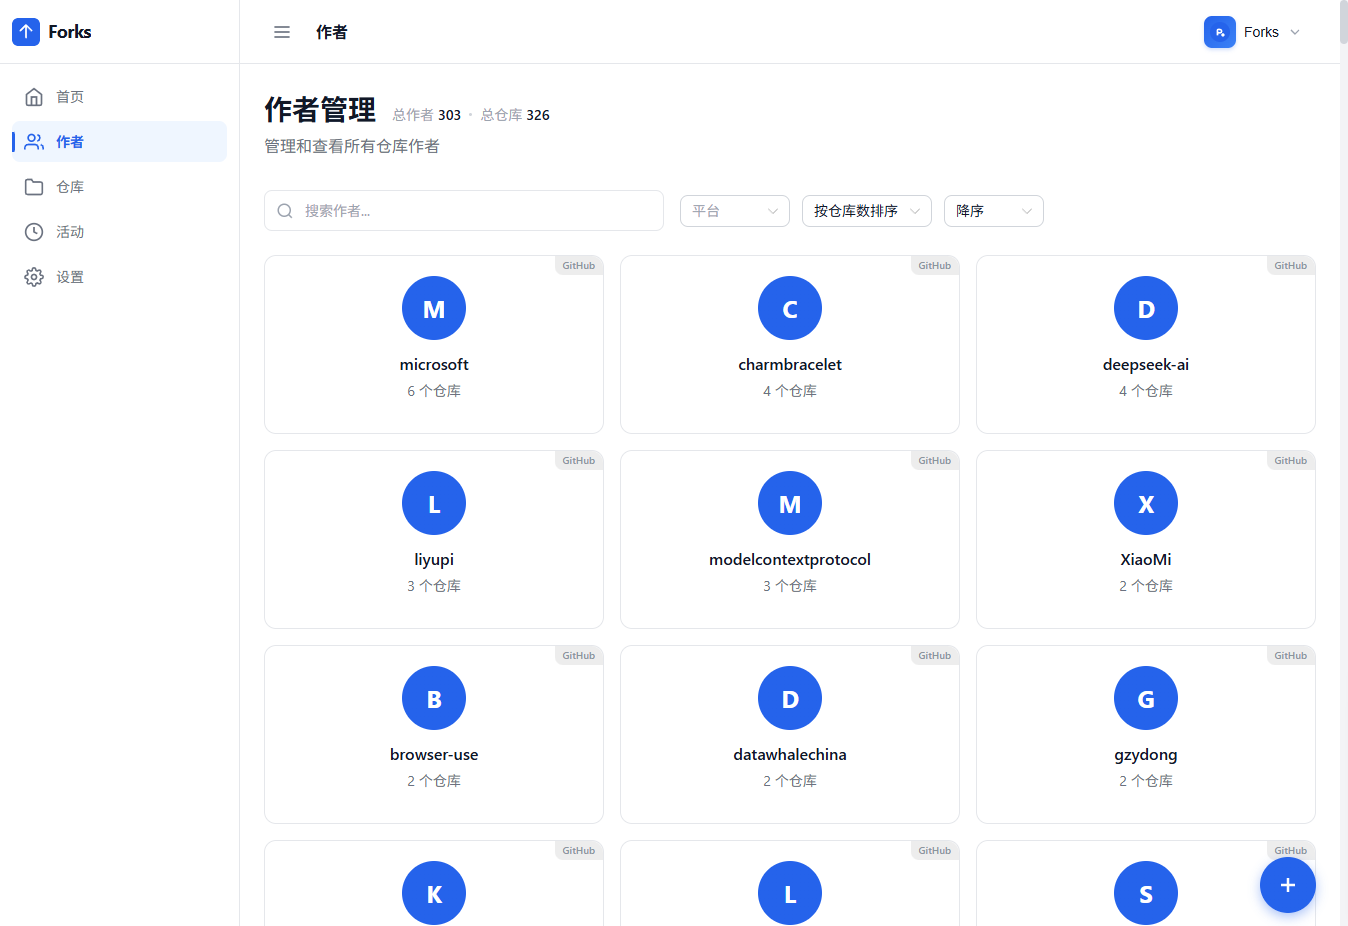
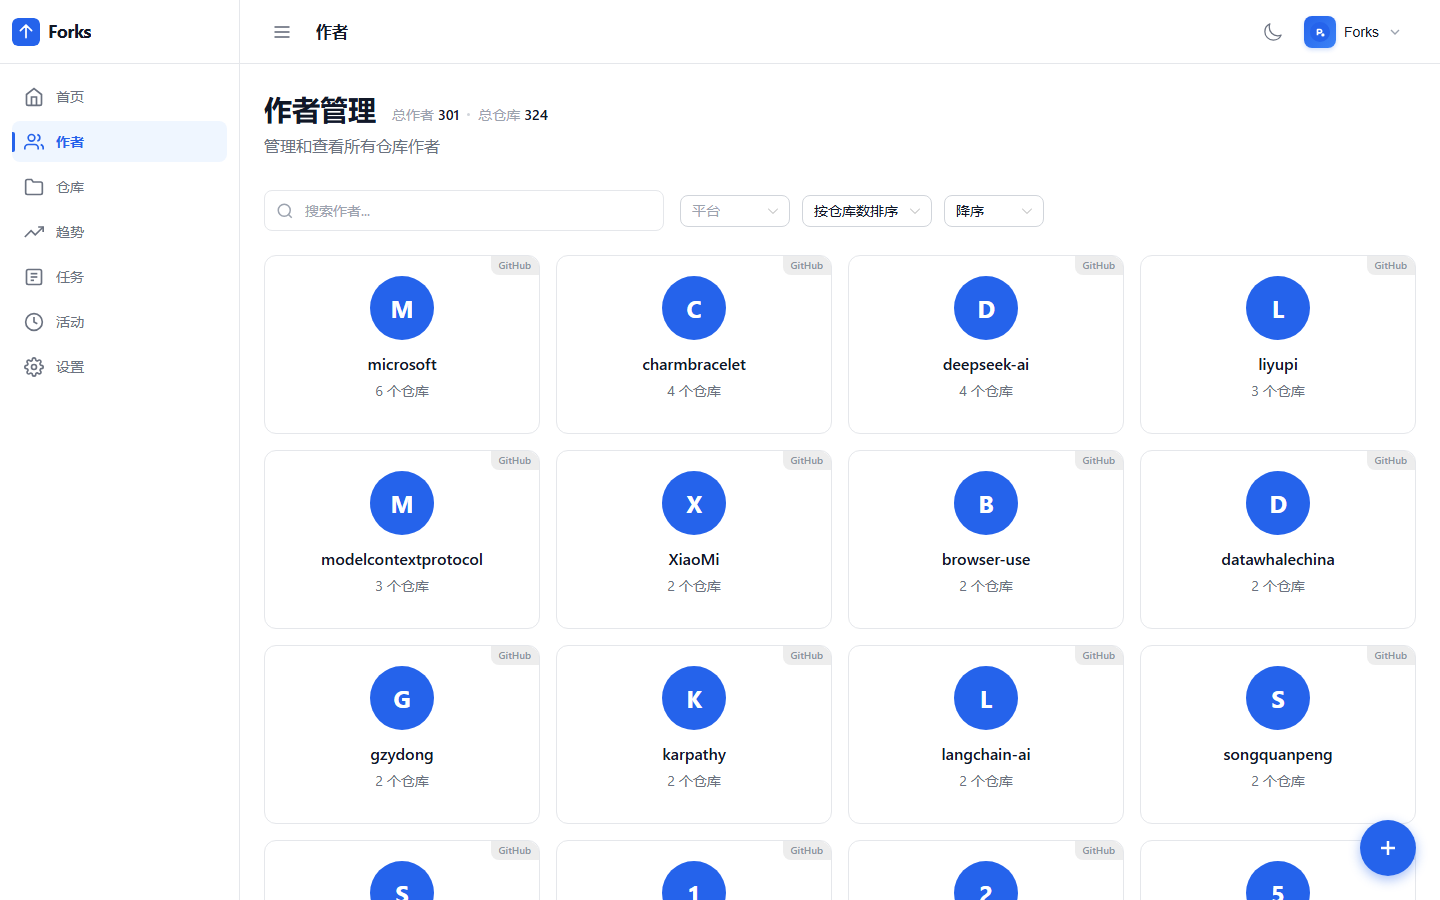
refactor(scripts): 重构脚本目录结构并优化功能
- 将脚本文件移动到 scripts 目录统一管理
- 更新脚本中的路径处理逻辑以适应新位置
- 优化 docker_build.py 和 release.py 的根目录处理
- 新增 screenshots.py 用于自动生成界面截图
- 更新 README.md 文档和界面截图

diff --git a/scripts/screenshots.py b/scripts/screenshots.py
@@ -1,0 +1,95 @@
+import asyncio
+import os
+from playwright.async_api import async_playwright
+
+BASE = 'http://127.0.0.1:8080'
+TOKEN = '12345678'
+OUT = os.path.join(os.path.dirname(os.path.dirname(__file__)), 'images')
+
+async def main():
+    async with async_playwright() as p:
+        browser = await p.chromium.launch()
+        context = await browser.new_context(
+            viewport={'width': 1440, 'height': 900},
+            color_scheme='dark',
+        )
+
+        pg = await context.new_page()
+
+        # 通过 ?token= 登录
+        await pg.goto(f'{BASE}/?token={TOKEN}', wait_until='domcontentloaded', timeout=15000)
+        await pg.wait_for_timeout(2000)
+        await pg.evaluate('window.history.replaceState({}, "", "/")')
+
+        # 首页
+        print('截图: 首页')
+        await pg.reload(wait_until='domcontentloaded', timeout=15000)
+        await pg.wait_for_timeout(4000)
+        await pg.add_style_tag(content='::-webkit-scrollbar { width: 0 !important; height: 0 !important; }')
+        await pg.wait_for_timeout(300)
+        await pg.screenshot(path=f'{OUT}/首页.png')
+        print(f'  done ({os.path.getsize(f"{OUT}/首页.png")} bytes)')
+
+        pages = [
+            ('仓库列表', 'repos'),
+            ('作者', 'authors'),
+            ('趋势', 'trending'),
+            ('活动', 'activities'),
+            ('设置', 'settings'),
+        ]
+
+        for name, path in pages:
+            print(f'截图: {name}')
+            await pg.goto(f'{BASE}/{path}', wait_until='domcontentloaded', timeout=15000)
+            await pg.wait_for_timeout(3000)
+            await pg.add_style_tag(content='::-webkit-scrollbar { width: 0 !important; height: 0 !important; }')
+            await pg.wait_for_timeout(300)
+            await pg.screenshot(path=f'{OUT}/{name}.png')
+            print(f'  done ({os.path.getsize(f"{OUT}/{name}.png")} bytes)')
+
+        # 仓库详情：点击第一个仓库
+        print('截图: 仓库详情')
+        await pg.goto(f'{BASE}/repos', wait_until='domcontentloaded', timeout=15000)
+        await pg.wait_for_timeout(2000)
+        card = pg.locator('.repo-card').first
+        try:
+            await card.wait_for(state='visible', timeout=3000)
+            await card.click()
+            await pg.wait_for_timeout(2000)
+        except:
+            print('    (未找到仓库卡片)')
+        await pg.screenshot(path=f'{OUT}/仓库详情.png')
+        print(f'  done ({os.path.getsize(f"{OUT}/仓库详情.png")} bytes)')
+
+        # 代码查看：从 API 获取一个已克隆仓库的 ID
+        print('截图: 代码查看')
+        resp = await pg.evaluate(f'''
+            fetch('{BASE}/api/repos?status=cloned&page=1&page_size=1', {{
+                headers: {{ 'Authorization': 'Bearer {TOKEN}' }}
+            }}).then(r => r.json())
+        ''')
+        code_id = None
+        try:
+            code_id = resp['data']['list'][0]['id']
+        except:
+            print('    (未找到已克隆仓库，跳过)')
+        if code_id:
+            await pg.goto(f'{BASE}/code/{code_id}', wait_until='domcontentloaded', timeout=15000)
+            await pg.wait_for_timeout(3000)
+            # 点击第一个文件加载内容
+            file_item = pg.locator('.file-tree .tree-item, .n-tree-node-content').first
+            try:
+                await file_item.wait_for(state='visible', timeout=3000)
+                await file_item.click()
+                await pg.wait_for_timeout(2000)
+            except:
+                pass
+            await pg.add_style_tag(content='::-webkit-scrollbar { width: 0 !important; height: 0 !important; }')
+            await pg.wait_for_timeout(300)
+            await pg.screenshot(path=f'{OUT}/代码查看.png')
+            print(f'  done ({os.path.getsize(f"{OUT}/代码查看.png")} bytes)')
+
+        await browser.close()
+        print('全部完成')
+
+asyncio.run(main())

diff --git a/scripts/release.py b/scripts/release.py
@@ -7,8 +7,9 @@ import subprocess
 import sys
 from pathlib import Path
 
-VERSION_FILE = Path(__file__).parent / "VERSION"
-MSG_FILE = Path(__file__).parent / "msg.txt"
+ROOT = Path(__file__).parent.parent
+VERSION_FILE = ROOT / "VERSION"
+MSG_FILE = ROOT / "msg.txt"
 
 
 def read_version() -> str:
@@ -35,7 +36,8 @@ def bump_version(current: str) -> str:
 
 def run_git(*args: str, check: bool = True) -> subprocess.CompletedProcess:
     result = subprocess.run(
-        ["git"] + list(args), capture_output=True, text=True, check=False
+        ["git"] + list(args), capture_output=True, text=True, check=False,
+        cwd=str(ROOT)
     )
     if check and result.returncode != 0:
         print(f"git {' '.join(args)} 失败:\n{result.stderr}")

diff --git a/scripts/docker_build.py b/scripts/docker_build.py
@@ -29,6 +29,10 @@ def main():
     image = f"{args.name}:{args.tag}"
     output = args.output or f"{args.name}_{args.tag}.tar"
 
+    # 项目根目录
+    root = os.path.dirname(os.path.dirname(__file__))
+    os.chdir(root)
+
     # 0. 检查前端构建产物
     if not os.path.isdir("web/dist") or not os.listdir("web/dist"):
         print("错误: web/dist 目录不存在或为空，请先构建前端:")

diff --git a/scripts/gen_release_notes.py b/scripts/gen_release_notes.py
@@ -5,7 +5,7 @@ import subprocess
 import sys
 from pathlib import Path
 
-ROOT = Path(__file__).parent
+ROOT = Path(__file__).parent.parent
 OUTPUT = ROOT / "msg.txt"
 
 

diff --git a/README.md b/README.md
@@ -25,22 +25,28 @@
 
 ## 界面预览
 
-**首页仪表盘** — 仓库统计与快捷操作
+**首页仪表盘** — 仓库统计、快捷操作、今日热门趋势
 ![首页](images/首页.png)
 
-**仓库列表** — 搜索、筛选、批量操作
+**仓库列表** — 搜索、筛选、批量操作，卡片展示仓库描述
 ![仓库列表](images/仓库列表.png)
 
-**仓库详情** — 仓库信息与克隆地址
+**仓库详情** — 文件浏览、信息面板、DeepWiki/ZRead 快捷链接
 ![仓库详情](images/仓库详情.png)
+
+**代码查看** — 多语言语法高亮、Markdown 渲染、文件树导航
+![代码查看](images/代码查看.png)
 
 **作者** — 按作者聚合查看仓库
 ![作者](images/作者.png)
 
+**GitHub 趋势** — 按语言、时间范围筛选，已收藏仓库自动标注
+![趋势](images/趋势.png)
+
 **活动记录** — 操作日志追踪
 ![活动](images/活动.png)
 
-**设置** — 代理、Token 等系统配置
+**设置** — 代理、Token、MCP 工具列表、趋势同步配置
 ![设置](images/设置.png)
 
 ## 功能特性
@@ -161,6 +167,7 @@ docker run -d -p 8080:8080 -v ./data:/data forks
 | `get_stats` | 获取仓库统计信息 |
 | `list_repo_files` | 列出仓库文件结构 |
 | `read_repo_file` | 读取仓库文件内容 |
+| `get_trending` | 获取 GitHub 趋势仓库列表 |
 
 认证方式与 API 相同，使用 Bearer Token。
 
